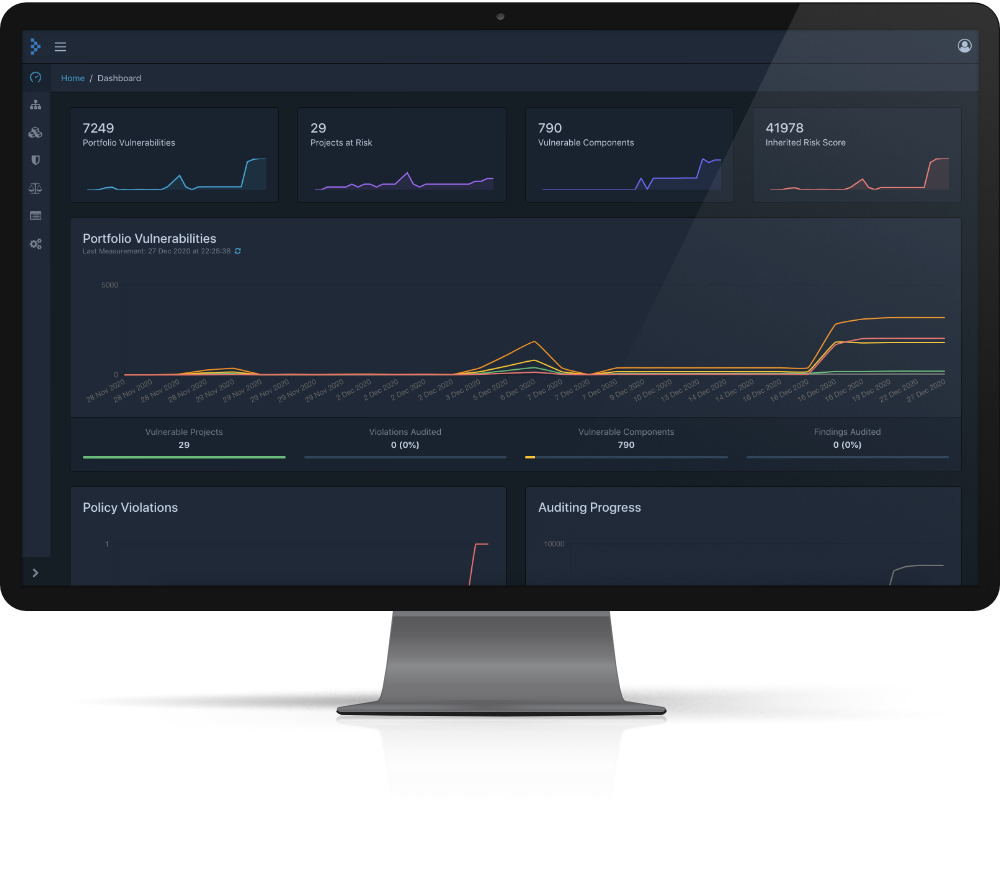
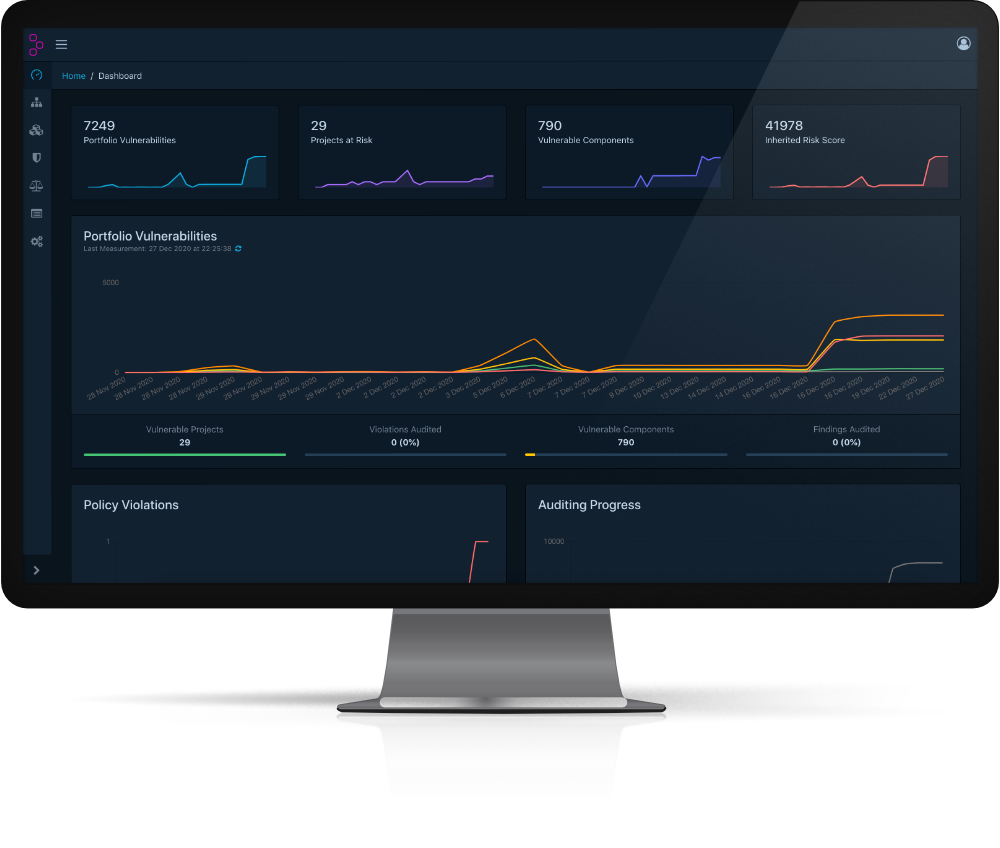
Updating branding

diff --git a/docs/css/main.scss b/docs/css/main.scss
@@ -14,12 +14,12 @@ $content-max-width: 800px;
 $content-color: #222;
 $content-background-color: #f0f0f0;
 
-$brand-colour: #1A232F;
+$brand-colour: #050627;
 $brand-colour-light: mix($brand-colour, $content-background-color, 10%);
 
 $nav-header-background-color: $brand-colour;
 $nav-header-height: 60px;
-$nav-background-color: #1A232F;
+$nav-background-color: #050627;
 $nav-width: 300px;
 
 $space: 20px;

diff --git a/docs/_sass/_layout.scss b/docs/_sass/_layout.scss
@@ -256,7 +256,7 @@ nav > ul {
 	&.current > a,
 	> a:active,
 	> a:hover {
-		color: #8BE9FD;
+		color: #00FFFF;
 	}
 
 	&.current > a,

diff --git a/docs/index.md b/docs/index.md
@@ -38,6 +38,8 @@ CI/CD environments.
   * [National Vulnerability Database] (NVD)
   * [GitHub Advisories]
   * [Sonatype OSS Index]
+  * [Snyk]
+  * [OSV]
   * [VulnDB] from [Risk Based Security]
   * More coming soon.
 * Helps to prioritize mitigation by incorporating support for the [Exploit Prediction Scoring System (EPSS)]
@@ -77,6 +79,8 @@ CI/CD environments.
 [National Vulnerability Database]: https://nvd.nist.gov
 [GitHub Advisories]: https://www.github.com/advisories
 [Sonatype OSS Index]: https://ossindex.sonatype.org
+[Snyk]: https://snyk.io
+[OSV]: https://osv.dev
 [VulnDB]: https://vulndb.cyberriskanalytics.com
 [Risk Based Security]: https://www.riskbasedsecurity.com
 [Component Analysis]: https://owasp.org/www-community/Component_Analysis

diff --git a/README.md b/README.md
@@ -16,7 +16,7 @@
 [![Pulls - Bundled](https://img.shields.io/docker/pulls/dependencytrack/bundled.svg?label=Docker%20Pulls%20%28Bundled%29)](https://hub.docker.com/r/dependencytrack/bundled/)
 [![Pulls - Legacy](https://img.shields.io/docker/pulls/owasp/dependency-track.svg?label=Docker%20Pulls%20%28OWASP%20Legacy%29)](https://hub.docker.com/r/owasp/dependency-track/)
 
-![logo preview](https://raw.githubusercontent.com/DependencyTrack/branding/master/3.8%20-%204.7/dt-logo-black-text.svg?sanitize=true)
+![logo preview](https://raw.githubusercontent.com/DependencyTrack/branding/master/dt-logo.svg?sanitize=true)
 
 
 Dependency-Track is an intelligent [Component Analysis] platform that allows organizations to